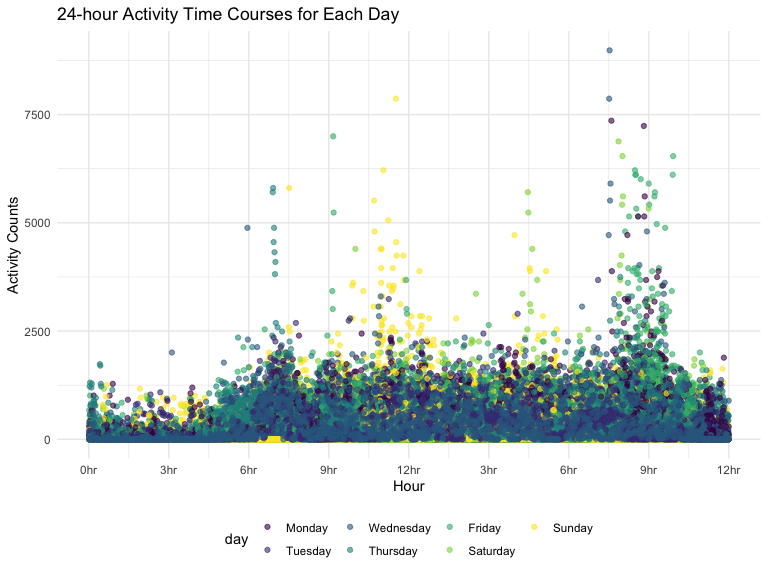
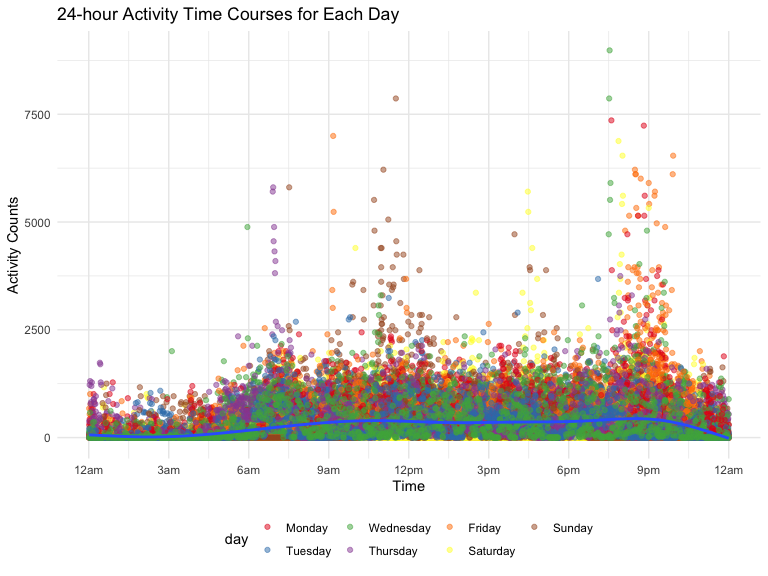
Problem 2 modify the color and axis of the plot

diff --git a/p8105_hw3_yx2638.md b/p8105_hw3_yx2638.md
@@ -130,9 +130,9 @@ accel = read_csv("data/accel_data.csv")
 accel_tidy = accel %>%
         janitor::clean_names() %>%
         pivot_longer(activity_1:activity_1440, names_to = "minute", values_to = "activity_counts", names_prefix =  "activity_") %>%
-        mutate(weekday_vs_weekend = ifelse(day %in% c("Saturday", "Sunday"), "weekend", "weekday")) %>%
         mutate(day = day %>% 
                        fct_relevel("Monday", "Tuesday", "Wednesday","Thursday","Friday", "Saturday", "Sunday")) %>% 
+        mutate(weekday_vs_weekend = ifelse(day %in% c("Saturday", "Sunday"), "weekend", "weekday")) %>%
         mutate(minute = as.integer(minute)) 
 ```
 
@@ -192,9 +192,9 @@ accel_tidy %>%
 |    5 | Saturday  |               1440.00 |
 |    5 | Sunday    |             138421.00 |
 
-The trend is not apparent. However, it’s obvious that the total activity
-accounts on Saturdays in week 4 and week 5 is far lower than any other
-days.
+We cannot observe apparent trend from the table. However, it’s obvious
+that the total activity accounts on Saturdays in week 4 and week 5 is
+far lower than any other days.
 
 #### Make a single-panel plot that shows the 24-hour activity time courses for each day
 
@@ -202,24 +202,32 @@ days.
 accel_tidy %>%
         group_by(day, minute) %>%
         ggplot(aes(x = minute, y = activity_counts)) +
-        geom_point(aes(color = day), alpha = 0.6) +
+        geom_point(aes(color = day), alpha = 0.5) +
+        scale_color_brewer(palette = "Set1") +
+        geom_smooth() + 
         scale_x_continuous(
                 breaks = c(0, 180, 360, 540, 720, 900, 1080, 1260, 1440),
-                labels = c("0hr", "3hr", "6hr", "9hr", "12hr", "3hr", "6hr", "9hr", "12hr")) + 
-        labs(x = "Hour", y = "Activity Counts", title = "24-hour Activity Time Courses for Each Day")
+                labels = c("12am", "3am", "6am", "9am", "12pm", "3pm", "6pm", "9pm", "12am")) + 
+        labs(x = "Time", 
+             y = "Activity Counts", 
+             title = "24-hour Activity Time Courses for Each Day")
 ```
 
-<img src="p8105_hw3_yx2638_files/figure-gfm/unnamed-chunk-9-1.png" width="90%" />
-For most of the time, the activity count for every minute throughout the
-day is less than 2500.
+    ## `geom_smooth()` using method = 'gam' and formula 'y ~ s(x, bs = "cs")'
 
-We can observe that the activity count of this male is low between 12am
-and 6am, and then begins to increase. Around 9am, the activity count
-reaches the first peak. The second peak occurs around 9pm, after which
-the activity account begins to decline. Within weekday, his activity
-count is relatively high around 7am on some Thursdays and around 9am on
-some Fridays. As for the weekend, the activity count is high in the
-afternoon.
+<img src="p8105_hw3_yx2638_files/figure-gfm/unnamed-chunk-9-1.png" width="90%" />
+
+Within a day, we can observe that the activity count of this male is
+very low between 12am and 3am, and then begins to increase. Around 9-12w
+wwwam, the activity count reaches the first peak, after then it remains
+with little fluctuation. The second peak occurs around 9pm, after which
+the activity account begins to decline.
+
+Within weekday, his activity count is relatively high around 7am on some
+Thursdays and around 9am on some Fridays. As for the weekend, the
+activity count is high in the afternoon, especially around 4-5pm on
+Saturday and around 12pm on Sunday. Between 8-10pm, the count is usually
+high across many days, especially on Friday.
 
 From this plot, we can roughly identify his daily schedule (such as the
 time of wake-up and sleep).
